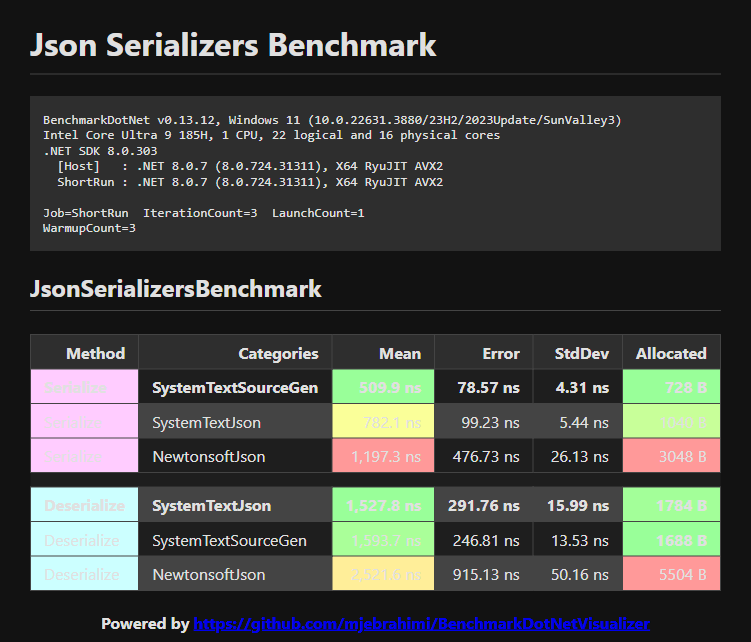
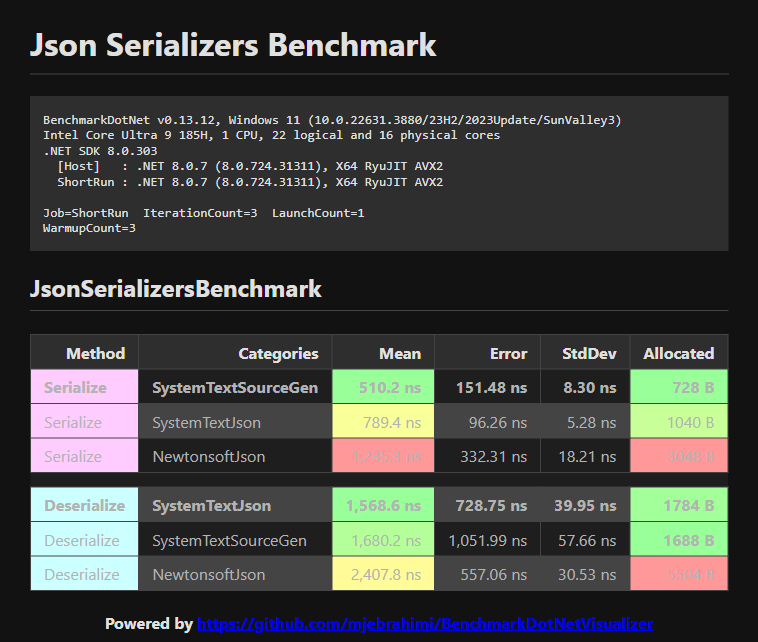
Added Better Text Color For Benchmarks In Dark Mode

diff --git a/samples/Reports/JsonSerializers/Benchmark-Dark.html b/samples/Reports/JsonSerializers/Benchmark-Dark.html
@@ -8,7 +8,7 @@
     h1, h2 { border-bottom: solid 1px #444444; }
     h1, h2, h3 { padding-bottom: 0.3em; }
     table { border-collapse: collapse !important; margin-top: 3px !important; width: 100%; display: inline-table; margin-bottom: 20px !important; }
-    td, th { padding: 6px 13px; border: 1px solid #444444; text-align: right; white-space: nowrap; }
+    td, th { padding: 6px 13px; border: 1px solid #444444; text-align: right; white-space: nowrap;color: #b3b3b3; }
     tr { background-color: #1E1E1E !important; border-top: 1px solid #CCC; }
     tr:nth-child(even):not(.divider) { background: #444444 !important; }
     tr.divider { border: 0; font-size: 10px; }
@@ -43,25 +43,25 @@ WarmupCount=3
 <tr>
 <td style="text-align: left; background-color: #FFCCFF"><strong>Serialize</strong></td>
 <td style="text-align: left"><strong>SystemTextSourceGen</strong></td>
-<td style="background-color: #99FF99"><strong>509.9 ns</strong></td>
-<td><strong>78.57 ns</strong></td>
-<td><strong>4.31 ns</strong></td>
+<td style="background-color: #99FF99"><strong>510.2 ns</strong></td>
+<td><strong>151.48 ns</strong></td>
+<td><strong>8.30 ns</strong></td>
 <td style="background-color: #99FF99"><strong>728 B</strong></td>
 </tr>
 <tr>
 <td style="text-align: left; background-color: #FFCCFF">Serialize</td>
 <td style="text-align: left">SystemTextJson</td>
-<td style="background-color: #FAFF99">782.1 ns</td>
-<td>99.23 ns</td>
-<td>5.44 ns</td>
+<td style="background-color: #F9FF99">789.4 ns</td>
+<td>96.26 ns</td>
+<td>5.28 ns</td>
 <td style="background-color: #C8FF99">1040 B</td>
 </tr>
 <tr>
 <td style="text-align: left; background-color: #FFCCFF">Serialize</td>
 <td style="text-align: left">NewtonsoftJson</td>
-<td style="background-color: #FF9999">1,197.3 ns</td>
-<td>476.73 ns</td>
-<td>26.13 ns</td>
+<td style="background-color: #FF9999">1,235.3 ns</td>
+<td>332.31 ns</td>
+<td>18.21 ns</td>
 <td style="background-color: #FF9999">3048 B</td>
 </tr>
 <tr class="divider">
@@ -73,25 +73,25 @@ WarmupCount=3
 <tr>
 <td style="text-align: left; background-color: #CCFFFF"><strong>Deserialize</strong></td>
 <td style="text-align: left"><strong>SystemTextJson</strong></td>
-<td style="background-color: #99FF99"><strong>1,527.8 ns</strong></td>
-<td><strong>291.76 ns</strong></td>
-<td><strong>15.99 ns</strong></td>
+<td style="background-color: #99FF99"><strong>1,568.6 ns</strong></td>
+<td><strong>728.75 ns</strong></td>
+<td><strong>39.95 ns</strong></td>
 <td style="background-color: #A3FF99"><strong>1784 B</strong></td>
 </tr>
 <tr>
 <td style="text-align: left; background-color: #CCFFFF">Deserialize</td>
 <td style="text-align: left">SystemTextSourceGen</td>
-<td style="background-color: #AAFF99">1,593.7 ns</td>
-<td>246.81 ns</td>
-<td>13.53 ns</td>
+<td style="background-color: #B4FF99">1,680.2 ns</td>
+<td>1,051.99 ns</td>
+<td>57.66 ns</td>
 <td style="background-color: #99FF99"><strong>1688 B</strong></td>
 </tr>
 <tr>
 <td style="text-align: left; background-color: #CCFFFF">Deserialize</td>
 <td style="text-align: left">NewtonsoftJson</td>
-<td style="background-color: #FFEE99">2,521.6 ns</td>
-<td>915.13 ns</td>
-<td>50.16 ns</td>
+<td style="background-color: #FFFB99">2,407.8 ns</td>
+<td>557.06 ns</td>
+<td>30.53 ns</td>
 <td style="background-color: #FF9999">5504 B</td>
 </tr>
 </tbody>

diff --git a/samples/Reports/JsonSerializers/Benchmark.html b/samples/Reports/JsonSerializers/Benchmark.html
@@ -43,25 +43,25 @@ WarmupCount=3
 <tr>
 <td style="text-align: left; background-color: #FFCCFF"><strong>Serialize</strong></td>
 <td style="text-align: left"><strong>SystemTextSourceGen</strong></td>
-<td style="background-color: #99FF99"><strong>509.9 ns</strong></td>
-<td><strong>78.57 ns</strong></td>
-<td><strong>4.31 ns</strong></td>
+<td style="background-color: #99FF99"><strong>510.2 ns</strong></td>
+<td><strong>151.48 ns</strong></td>
+<td><strong>8.30 ns</strong></td>
 <td style="background-color: #99FF99"><strong>728 B</strong></td>
 </tr>
 <tr>
 <td style="text-align: left; background-color: #FFCCFF">Serialize</td>
 <td style="text-align: left">SystemTextJson</td>
-<td style="background-color: #FAFF99">782.1 ns</td>
-<td>99.23 ns</td>
-<td>5.44 ns</td>
+<td style="background-color: #F9FF99">789.4 ns</td>
+<td>96.26 ns</td>
+<td>5.28 ns</td>
 <td style="background-color: #C8FF99">1040 B</td>
 </tr>
 <tr>
 <td style="text-align: left; background-color: #FFCCFF">Serialize</td>
 <td style="text-align: left">NewtonsoftJson</td>
-<td style="background-color: #FF9999">1,197.3 ns</td>
-<td>476.73 ns</td>
-<td>26.13 ns</td>
+<td style="background-color: #FF9999">1,235.3 ns</td>
+<td>332.31 ns</td>
+<td>18.21 ns</td>
 <td style="background-color: #FF9999">3048 B</td>
 </tr>
 <tr class="divider">
@@ -73,25 +73,25 @@ WarmupCount=3
 <tr>
 <td style="text-align: left; background-color: #CCFFFF"><strong>Deserialize</strong></td>
 <td style="text-align: left"><strong>SystemTextJson</strong></td>
-<td style="background-color: #99FF99"><strong>1,527.8 ns</strong></td>
-<td><strong>291.76 ns</strong></td>
-<td><strong>15.99 ns</strong></td>
+<td style="background-color: #99FF99"><strong>1,568.6 ns</strong></td>
+<td><strong>728.75 ns</strong></td>
+<td><strong>39.95 ns</strong></td>
 <td style="background-color: #A3FF99"><strong>1784 B</strong></td>
 </tr>
 <tr>
 <td style="text-align: left; background-color: #CCFFFF">Deserialize</td>
 <td style="text-align: left">SystemTextSourceGen</td>
-<td style="background-color: #AAFF99">1,593.7 ns</td>
-<td>246.81 ns</td>
-<td>13.53 ns</td>
+<td style="background-color: #B4FF99">1,680.2 ns</td>
+<td>1,051.99 ns</td>
+<td>57.66 ns</td>
 <td style="background-color: #99FF99"><strong>1688 B</strong></td>
 </tr>
 <tr>
 <td style="text-align: left; background-color: #CCFFFF">Deserialize</td>
 <td style="text-align: left">NewtonsoftJson</td>
-<td style="background-color: #FFEE99">2,521.6 ns</td>
-<td>915.13 ns</td>
-<td>50.16 ns</td>
+<td style="background-color: #FFFB99">2,407.8 ns</td>
+<td>557.06 ns</td>
+<td>30.53 ns</td>
 <td style="background-color: #FF9999">5504 B</td>
 </tr>
 </tbody>

diff --git a/src/Utilities/Html/HtmlHelper.Render.cs b/src/Utilities/Html/HtmlHelper.Render.cs
@@ -237,7 +237,7 @@ public static partial class HtmlHelper
                                          h1, h2 { border-bottom: solid 1px #444444; }
                                          h1, h2, h3 { padding-bottom: 0.3em; }
                                          table { border-collapse: collapse !important; margin-top: 3px !important; width: 100%; display: inline-table; margin-bottom: 20px !important; }
-                                         td, th { padding: 6px 13px; border: 1px solid #444444; text-align: right; white-space: nowrap; }
+                                         td, th { padding: 6px 13px; border: 1px solid #444444; text-align: right; white-space: nowrap;color: #b3b3b3; }
                                          tr { background-color: #1E1E1E !important; border-top: 1px solid #CCC; }
                                          tr:nth-child(even):not(.divider) { background: #444444 !important; }
                                          tr.divider { border: 0; font-size: 10px; }
